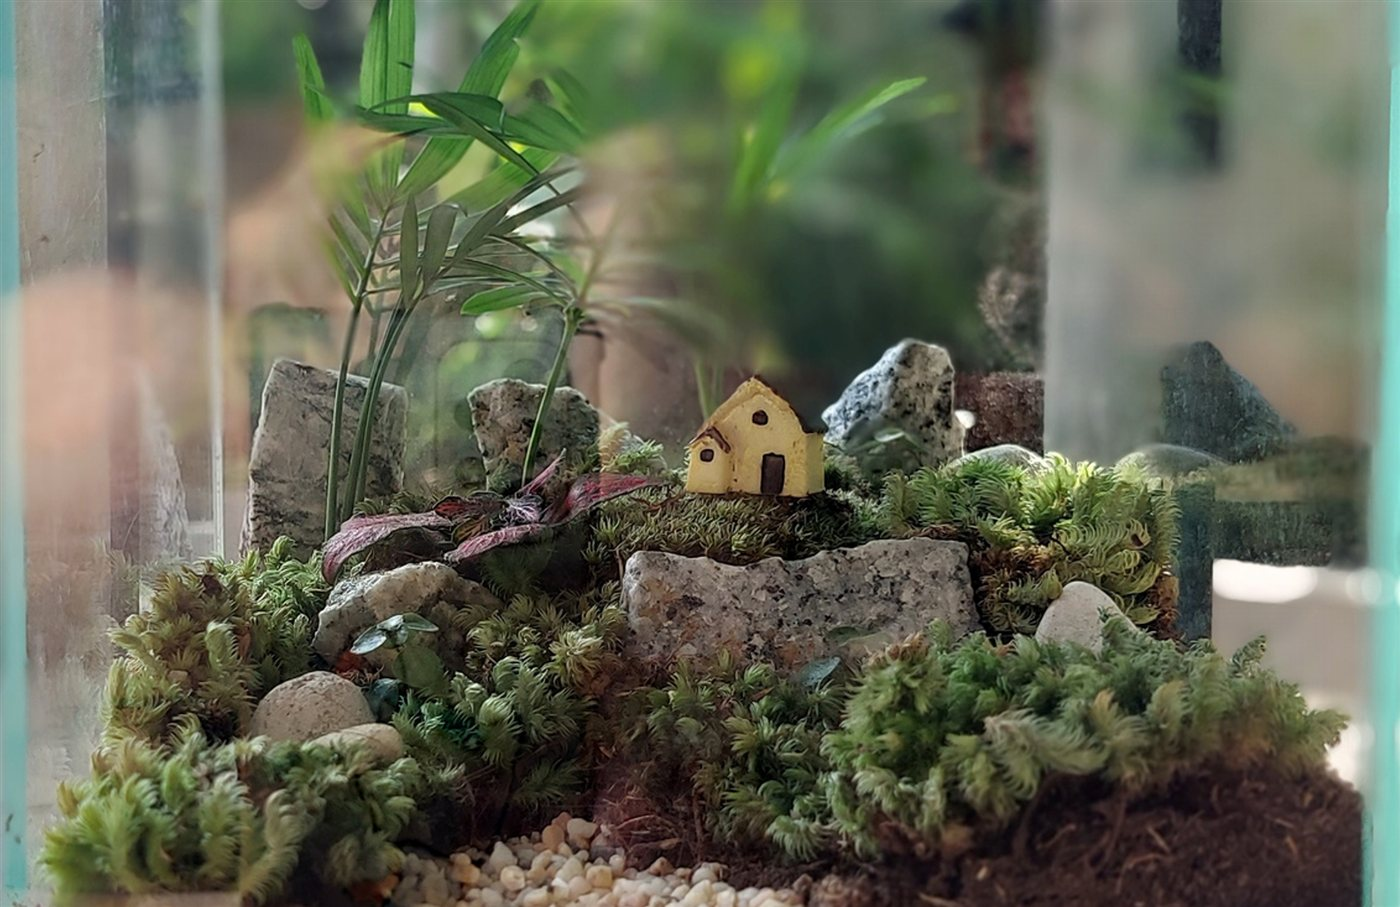
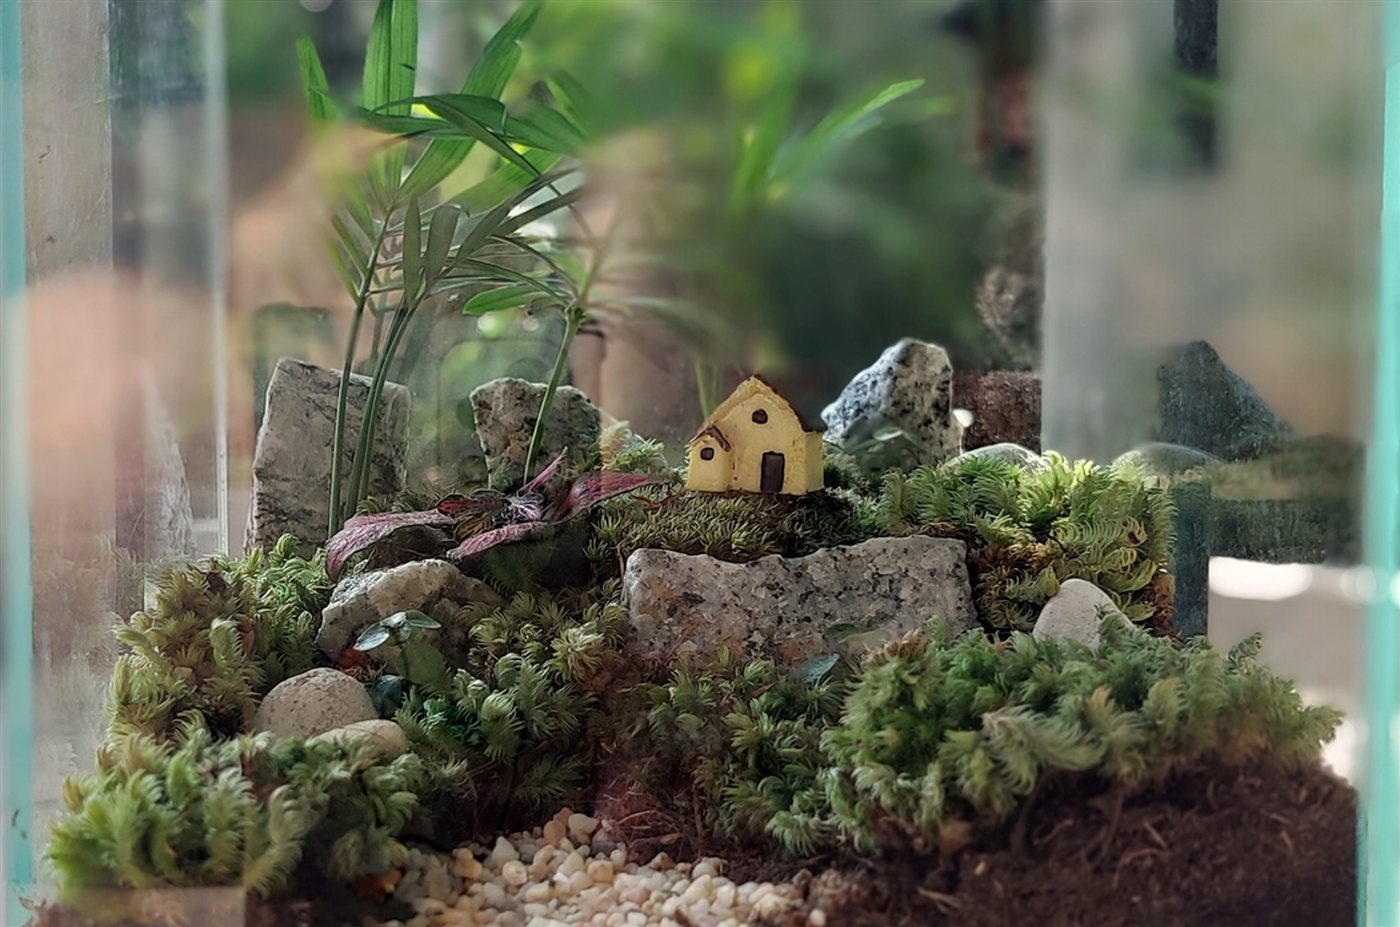
Show terrarium photos whole with a blurred backdrop instead of cropping

diff --git a/index.html b/index.html
@@ -432,13 +432,15 @@
     .terr[open] summary::after { content: "\2212"; }
     .terr[open] summary { border-bottom: 1px solid rgba(246, 242, 233, .14); }
     .terr-body { display: grid; grid-template-columns: minmax(0, 5fr) minmax(0, 6fr); gap: 1.6rem 2.2rem; padding: 1.6rem; align-items: start; }
-    .terr-body.tall { grid-template-columns: minmax(0, 330px) minmax(0, 1fr); }
+    .terr-body.tall { grid-template-columns: minmax(0, 360px) minmax(0, 1fr); }
     .terr-body.stack { grid-template-columns: 1fr; }
     .terr-body figure { margin: 0; }
     /* Photos sit directly on the dark background, with no white frame */
     .terr .frame, .terr .frame.has-img { background: transparent; background-image: none; padding: 0; border: 0; aspect-ratio: auto; display: block; border-radius: 14px; overflow: hidden; box-shadow: 0 24px 44px -24px rgba(0, 0, 0, .85); }
-    .terr .frame.has-img img { width: 100%; height: auto; max-height: none; object-fit: cover; display: block; }
-    .terr-body.tall .frame.has-img img { aspect-ratio: 3 / 4; height: auto; object-fit: cover; object-position: 50% 62%; }
+    .terr .frame.has-img { position: relative; display: flex; justify-content: center; align-items: center; background: #14201a; }
+    .terr .frame.has-img::before { content: ""; position: absolute; inset: -30px; background: var(--bg) center / cover no-repeat; filter: blur(26px) saturate(1.15) brightness(.7); }
+    .terr .frame.has-img img { position: relative; z-index: 1; width: auto; max-width: 100%; height: auto; max-height: 580px; object-fit: contain; display: block; }
+
     .terr-text p { color: #e4dfd1; font-size: 1.02rem; }
     .terr-text h4 { color: var(--paper); font-family: var(--serif); font-size: 1.15rem; margin: 1.2rem 0 .5rem; }
     .terr-text ol { margin: .3rem 0 0; padding-left: 1.2rem; color: #dcd6c6; font-size: .97rem; }
@@ -1768,6 +1770,14 @@
         if (e.key === 'ArrowLeft') { go(i - 1); e.preventDefault(); }
       });
       go(0);
+    });
+  })();
+  </script>
+  <script>
+  /* Terrarium photos are shown whole; a blurred copy of each photo fills any space around it. */
+  (function () {
+    document.querySelectorAll('.terr .frame img').forEach(function (im) {
+      im.parentNode.style.setProperty('--bg', 'url("' + im.src + '")');
     });
   })();
   </script>
